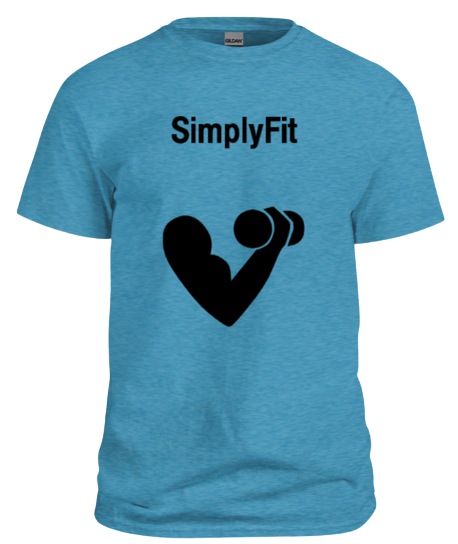
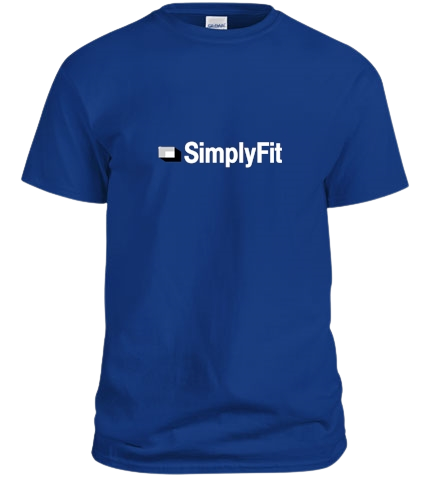
style healthy-recipes.html and collab on a drop-down menu

diff --git a/store.html b/store.html
@@ -21,11 +21,92 @@
     </header>
 
     <main>
-        <div class="merch-items">
-            <img src="images/tshirt.png" alt="SimplyFit T-shirt">
-            <h4>T-Shirt</h4>
-            <p class="merch-desc">Comfortable Cotton Tee</p>
-        </div>
+        <h1 id="store-title">Featured Products</h2>
+
+        <section id="merch-section">
+
+            <div class="merch-items">
+                <div class="merch-image-box">
+                    <img src="images/tshirt.png" alt="SimplyFit T-Shirt" class="merch-images">
+                </div>
+                <h4>T-Shirt</h4>
+                <p class="merch-desc">Gildan Cotton Tee - Royal Blue</p>
+                <p class="outofstock-text">OUT OF STOCK</p>
+            </div>
+
+            <div class="merch-items">
+                <div class="merch-image-box">
+                    <img src="images/tanktop.png" alt="SimplyFit Tank Top" class="merch-images">
+                </div>
+                <h4>Tank Top</h4>
+                <p class="merch-desc">Gildan Cotton Tank Top - Royal Blue</p>
+                <p class="outofstock-text">OUT OF STOCK</p>
+            </div>
+
+            <div class="merch-items">
+                <div class="merch-image-box">
+                    <img src="images/longsleeve.png" alt="SimplyFit Long Sleeve" class="merch-images">
+                </div>
+                <h4>Long Sleeve</h4>
+                <p class="merch-desc">Baseball Raglan Sleeve Tee - Vintage Royal/Heather White</p>
+                <p class="outofstock-text">OUT OF STOCK</p>
+            </div>
+
+            <div class="merch-items">
+                <div class="merch-image-box">
+                    <img src="images/hoodie.png" alt="SimplyFit Hoodie" class="merch-images">
+                </div>
+                <h4>Hoodie</h4>
+                <p class="merch-desc">Vintage Athletic Hoodie - Vintage Royal</p>
+                <p class="outofstock-text">OUT OF STOCK</p>
+            </div>
+
+            <div class="merch-items">
+                <div class="merch-image-box">
+                    <img src="images/croppedhoodie.png" alt="SimplyFit Cropped Hoodie" class="merch-images">
+                </div>
+                <h4>Cropped Hoodie</h4>
+                <p class="merch-desc">Cropped Fleece Hoodie - White</p>
+                <p class="outofstock-text">OUT OF STOCK</p>
+            </div>
+
+            <div class="merch-items">
+                <div class="merch-image-box">
+                    <img src="images/sweatpants.png" alt="SimplyFit Sweatpants" class="merch-images">
+                </div>
+                <h4>Sweatpants</h4>
+                <p class="merch-desc">Midweight Fleece Sweatpants - Grey Heather</p>
+                <p class="outofstock-text">OUT OF STOCK</p>
+            </div>
+
+            <div class="merch-items">
+                <div class="merch-image-box">
+                    <img src="images/cap.png" alt="SimplyFit Cap" class="merch-images">
+                </div>
+                <h4>Cap</h4>
+                <p class="merch-desc">Richardson Garment Baseball Cap - Royal/White</p>
+                <p class="outofstock-text">OUT OF STOCK</p>
+            </div>
+
+            <div class="merch-items">
+                <div class="merch-image-box">
+                    <img src="images/waterbottle.png" alt="SimplyFit Water Bottle" class="merch-images">
+                </div>
+                <h4>Water Bottle</h4>
+                <p class="merch-desc">Camelbak Podium Chill Bike Water Bottle - Black/Gray</p>
+                <p class="outofstock-text">OUT OF STOCK</p>
+            </div>
+
+            <div class="merch-items">
+                <div class="merch-image-box">
+                    <img src="images/backpack.png" alt="SimplyFit Backpack" class="merch-images">
+                </div>
+                <h4>Backpack</h4>
+                <p class="merch-desc">Port Authority Value Backpack - Twilight Blue</p>
+                <p class="outofstock-text">OUT OF STOCK</p>
+            </div>
+
+        </section>
     </main>
 
     <footer>
@@ -37,5 +118,15 @@
         </ul>
         <p>&copy;SimplyFit, Inc. 2023. We love our users!</p>
     </footer>
+
+    <script> /*add javascript for outofstock alert*/
+
+        const merchItems = document.querySelector(".merch-items");
+
+        merchItems.onclick = function() {
+            alert('This item is currently out of stock.');
+        }
+
+    </script>
 </body>
 </html>

diff --git a/style.css b/style.css
@@ -328,3 +328,46 @@ section {
 }
 /* About Us ends here */
 
+/* store.html starts here */
+#merch-section {
+    height: 2000px;
+    width: 100%;
+    row-gap: 0px;
+    padding: 0;
+    display: flex;
+    justify-content: center;
+    flex-wrap: wrap;
+}
+
+#store-title {
+    display: flex;
+    justify-content: center;
+    margin-top: 100px;
+    margin-bottom: 70px;
+}
+
+.merch-items { /*gap is too big*/
+    height: 400px;
+    display: inline-block;
+    width: 300px;
+    margin: 0px 30px 0px 30px;
+}
+
+.merch-image-box {
+    background-color: rgba(16, 110, 197, 0.161);
+    border-radius: 20px;
+    height: 300px;
+    width: 300px;
+    display: flex;
+    justify-content: center;
+}
+
+/*.merch-images {
+    align-items: center;
+}*/
+
+.outofstock-text {
+    color: black;
+    font-weight: bolder;
+}
+/* store.html ends here */
